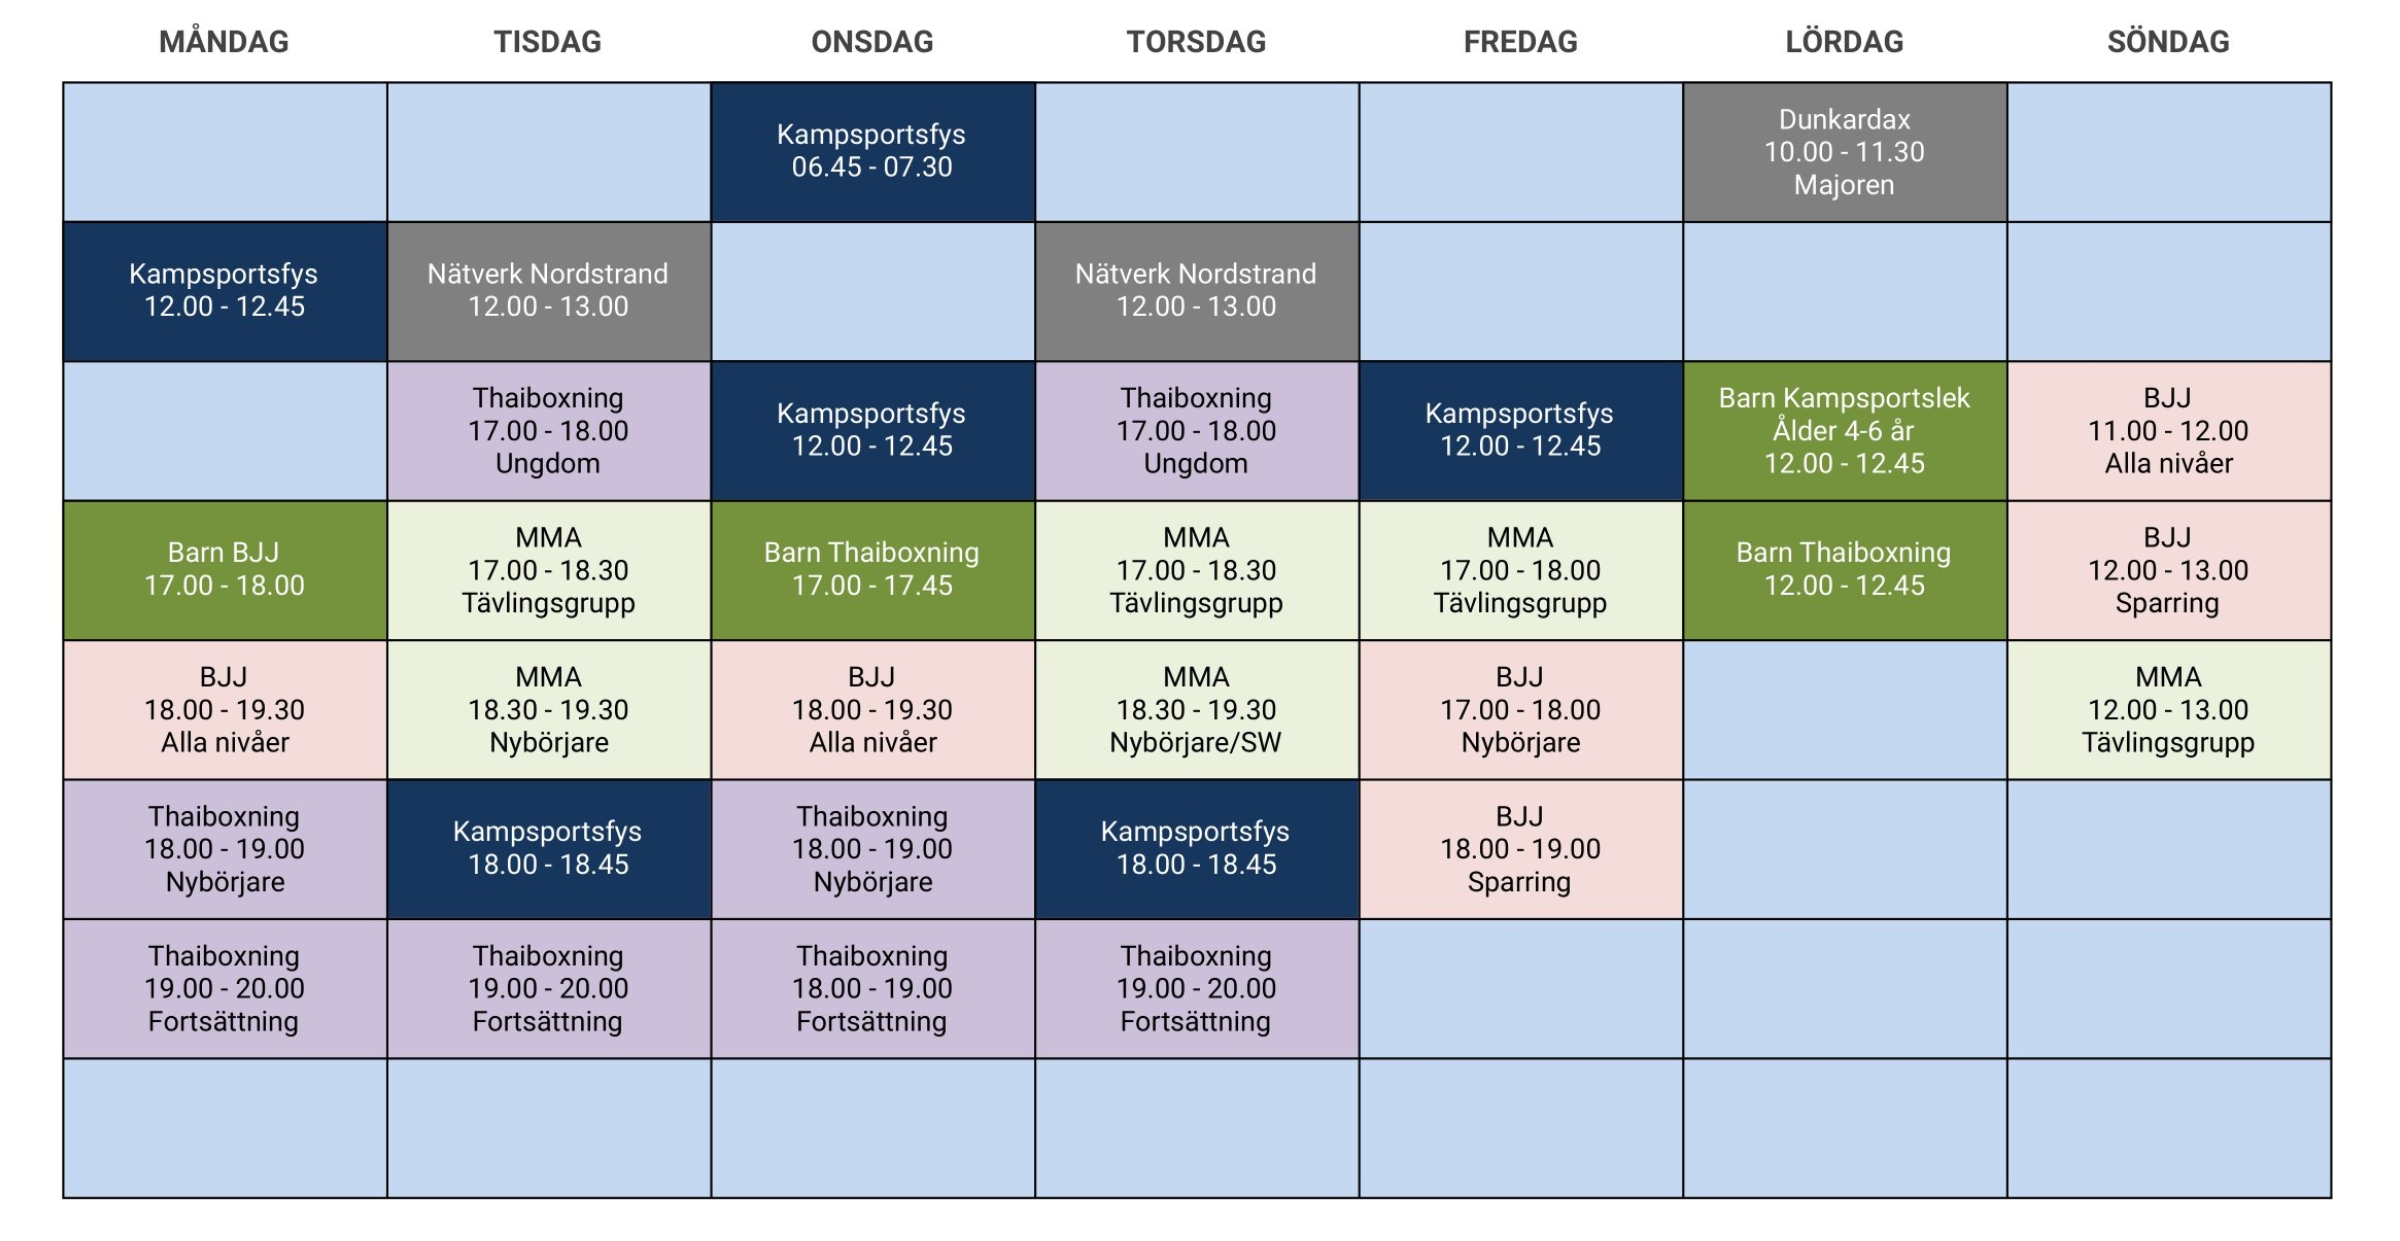
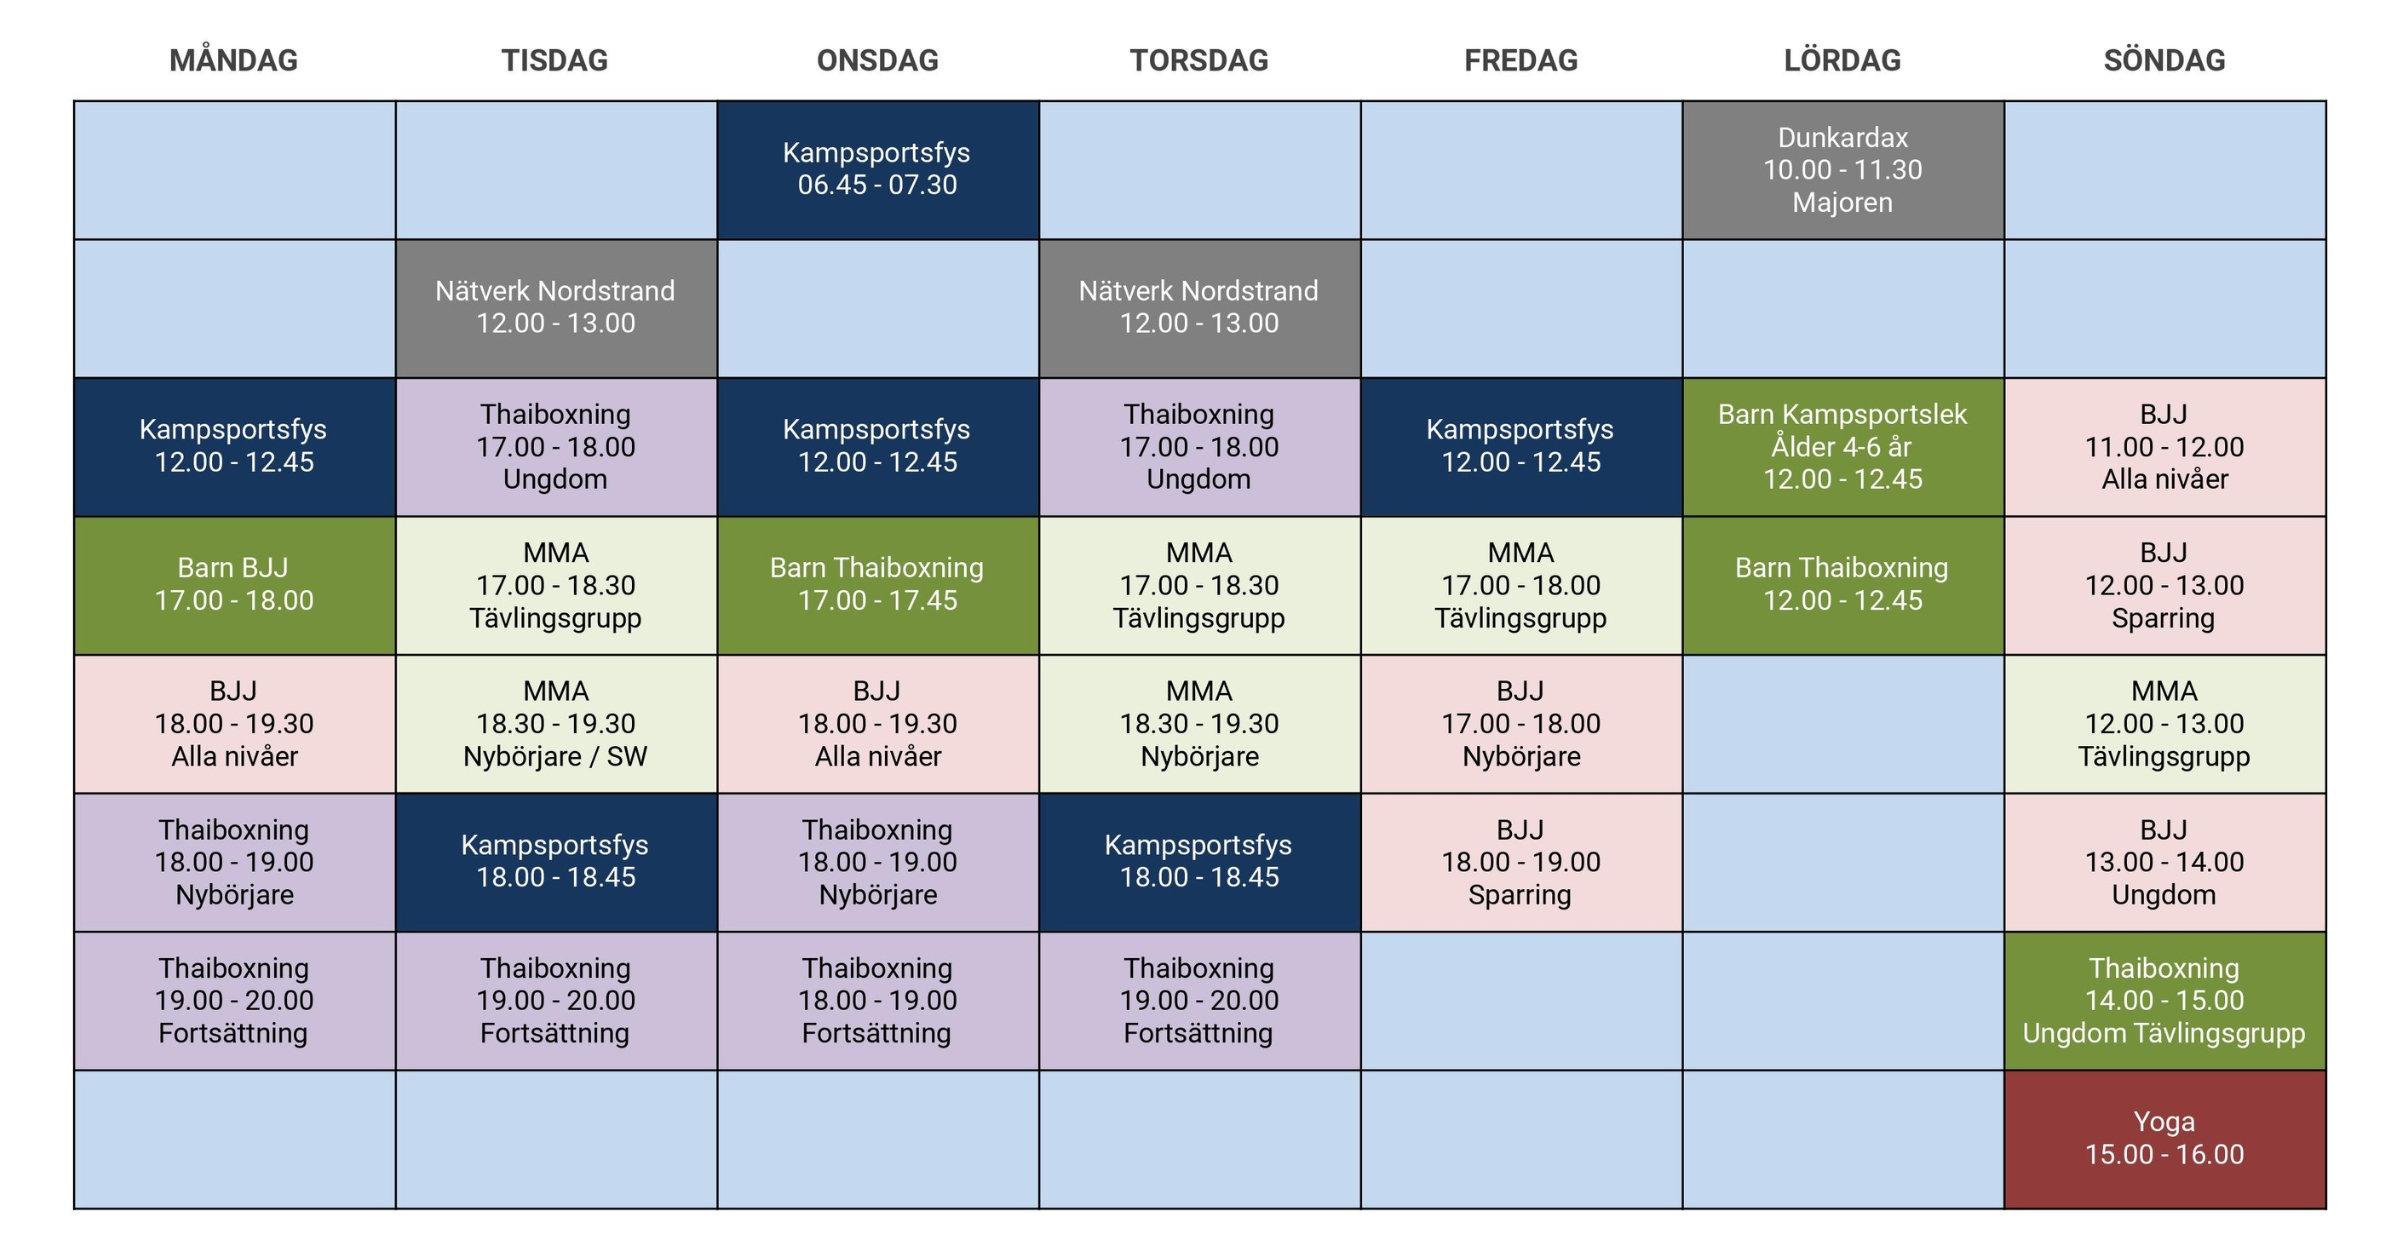
Fixes

Changed region(s): [[0.0, 0.0, 1.0, 0.9799]]

diff --git a/src/data/classes.tsx b/src/data/classes.tsx
@@ -1,23 +1,21 @@
 const classes = [
   {header: `Muay Thai`, text:`Här lär du dig grunderna i thaiboxning. Slag, spark, armbågar,
   knän och clinch. En utmanande och rolig sport där man ständigt utvecklas och lär sig något nytt. Denna träningsform passar båda motionärer och proffs.
-  En bra all around  träning med mycket fokus på fys, funktionell styrka och teknik.`, classLevels:`ungdomar (12-16år), nybörjare, fortsättning & avancerad.`, 
+  En bra all around  träning med mycket fokus på fys, funktionell styrka och teknik.`, classLevels:`Barn (7-12 år), ungdomar (12-16år), nybörjare, fortsättning & avancerad.`, 
   coaches:`Rickard Nordstrand, Fredrik Gillinger, Patrik Alfredsson, Oscar Svedman, Niklas Karlsson, Ash Byrne, Markuu Hakala, Synöve Asplund, Liam Wilson & Mathilda Lundquvist.`},
   {header: `MMA`, text:`Mixed Martial Arts (MMA) är en sport med sparkar, slag, kast och markkamp med inriktning på fullkontakt. Det är en teknisk sport var man ständigt utmanas, utvecklas och lär sig något nytt.
-  Handskar, benskydd och tandskydd behövs.`, classLevels:`nybörjare, fortsättning/avancerad & tävling.`, 
+  Handskar, benskydd och tandskydd behövs.`, classLevels:`Vi har klasser för alla nivåer`, 
   coaches:`Jimmie Jensen (tävlingsansvarig för elitgruppen), Pejman Parchami, Sandra Meneses, Jaffer Mohammed.`},
   {header: `Brasiliansk jiu-jitsu (BJJ)`, text:`Brasiliansk jiu-jitsu (Bjj) härstammar från japansk jiu-jitsu och judo men har under decennier vidareutvecklats av familjen Gracie. Bjj är en grappling-stil, 
   vilket innebär att man inte använder sig av slag eller sparkar utan istället fokuserar på att med ledlås och strypningar oskadliggöra sin motståndare. Grundtanken är att få ner sin motståndare på marken, 
   kontrollera honom/henne där och med hjälp av ledlås och strypningar tvinga denne att ge upp. Bjj är den kampsport där en mindre utövare har störst möjlighet att övermanna en större och starkare motståndare. 
   Detta för att teknik alltid går före fysiska egenskapar. Fokus på teknik och att kampen huvudsaklig pågår på marken gör att detta är en sport som passar alla. Killar som tjejer, små som stora och unga som gamla.`, 
-  classLevels:`barn, nybörjare & avancerad.`, coaches:`Rodrigo Gonzalez, Reza Sadeghi, Erik Veas (barngrupp)`},
+  classLevels:`Barn (7-12 år), ungdomar (12-16år), nybörjare, fortsättning & avancerad.`, coaches:`Rodrigo Gonzalez, Reza Sadeghi, Erik Veas (barngrupp)`},
   {header: `Kampsportsfys`, text:`Funktionell styrka med kampsportsmoment. Effektiv och rolig träning. Utmanande utan att man behöver slåss med någon. Passar för alla och inga förkunskaper krävs.`, 
   classLevels:``, coaches:`Rickard Nordstrand, Matias Sylvan, Petter Ingmarsson, Patrik Asplund, Synøve Asplund, Sabina Dalfjäll Vassiliou & Theres Bäckgren.`},
   {header: `Dunkardax/Cirkelfys`, text:`90 minuter cirkelträning med kampsport moment. Ett fyspass med högt tempo, styrka och flås! Passar för alla och inga förkunskaper krävs.`, 
   classLevels:``, coaches:`Jesper Majoren Lindblom, Fredrik Gillinger & Linda Wering.`},
-  {header: `Gym`, text:`Som medlem har du fri tillgång till att använda gymmet 06.30-20.30 vardagar samt 09.00-13.00 lördag/söndag. 
-  Här hittar man det man behöver för att lyfta och bli stärk. Här finns även roddmaskiner, cyklar, yoga-matta och pilatesboll. 
-  Allt man behöver för att komplettera kampsporten på bästa möjliga sätt.`, 
+  {header: `Gym`, text:`I vårt gym hittar du allt du behöver för att bygga upp styrka och stabilitet. Vi har löpband, roddmaskiner och cyklar samt skivstänger, hantlar, kettlebells och kabelmaskin för att du ska kunna kunna få en varierad träning som komplement till kampsporten.`, 
   classLevels:``, coaches:``},
   {header: `Kampsport Barngrupp`, text:`Rekommenderad ålder är ca 7 till 11 år. BJJ: Brottning med GI-dräkt, Måndagar 17.00-17.55. Thaiboxning: Blandning av tekniker som slag och sparkar med fys och kroppskontroll, Onsdagar 17.00-17.45 + Lördagar 12.00-13.00. Kampsportlek: Kampsport för dom minsta. Barnen kommer lära sig brottning slag och sparkar under kontrollerade lekfulla former, 4-6 år: Lördagar 12.00-12.45, 
   Föräldrarna til dom minsta behöver vara med och hjälpa till att assistera under passen. Inga pass under skolloven.`, 
@@ -25,9 +23,14 @@ const classes = [
   {header: `AW/After work`, text:`Byt ut ölen med en Nocco och dra med kollegor och vänner på ett After Workout pass! 60 minuters grym träning!
   Vill ditt företag köra en After Workout:maila till info@kampsportstadion.se`, 
   classLevels:``, coaches:``},
-  {header: `Small Group`, text:`Vill du köra i liten grupp och få en mer personligare träning ännu på gruppassen? Våra PT kör grupper med upp till 4 personer anpassad 
-  efter erat önskemål. 1800kr per tillfället. Maila för mera information info@kampsportstadion.se`, 
+  {header: `Small Group`, text:`Vill ni köra i en ännu mindre grupp och mer personligt anpassad träning kan vi även erbjuda detta. Ni kör med en PT i en grupp upp till 4pers, där ni har chans att påverka varje pass utefter era önskemål.
+  Det kostar 1800kr per tillfälle och intresseanmälan görs till info@kampsportstadion.se`, 
   classLevels:``, coaches:``},
+  {header: `Strong Mama`, text:`Här är du som har en bebis hemma från 0-6mån välkommen att delta tillsammans med ditt lilla mirakel och andra mammor.
+  Vi kommer jobba utifrån ditt utgångsläge, men tillsammans med andra mammor för att skapa en liten exklusiv grupp för nyblivna mammor med samma intresse.
+  Fokus ligger här på att få tillbaka core-stabilitet och succesivt jobba upp din styrka och kondition.
+  Vi kommer jobba tillsammans 2ggr/vecka i 4-8veckor och detta pass ligger utanför ordinare medlemskap - För mer info och pris maila info@kampsportstadion.se och skriv StrongMama i ämnesfältet.`, 
+  classLevels:``, coaches:``}
 ]
 
 export default classes;

diff --git a/src/app/medlemskap/page.tsx b/src/app/medlemskap/page.tsx
@@ -10,7 +10,7 @@ export default function MembershipPage() {
       <div className="w-full">
         <div className="w-full h-full flex flex-col mt-40 items-center">
           <h2 className="text-center text-4xl font-bold">MEDLEMSKAP</h2>
-          <BlackButton text={"KÖP HÄR"} href={""} />
+          <BlackButton text={"KÖP HÄR"} href={"https://www.gymcontrol.se/global/webshop/index.php?uid=8975&action=home"} />
           <div className="grid grid-flow-row w-900:grid-cols-2 p-5">
 
             <div className="flex flex-col text-center h-full w-900:text-2xl col-start-1">
@@ -27,7 +27,7 @@ export default function MembershipPage() {
 
             <div className="flex flex-col text-center h-full w-900:text-2xl w-900:col-start-2">
               <h2 className="border-2 border-b-0 font-bold p-2 w-900:text-2xl">Årskort student</h2>
-              <p className="border-2 border-t-0 p-2 flex-grow w-900:px-20">550:-/månad autogiro
+              <p className="border-2 border-t-0 p-2 flex-grow w-900:px-20">8000:-/år
                 <br></br>
                 Träna så mycket du vill,
                 välj bland alla pass, tillgång till gymmet.
@@ -37,7 +37,7 @@ export default function MembershipPage() {
 
             <div className="flex flex-col text-center h-full w-900:text-2xl w-900:col-start-1 w-900:row-start-4">
               <h2 className="border-2 border-b-0 font-bold p-2 w-900:text-2xl">Guld Medlemskap</h2>
-              <p className="border-2 p-2 border-t-0 flex-grow w-900:px-20">1299:-/månad autogiro
+              <p className="border-2 p-2 border-t-0 flex-grow w-900:px-20">1499:-/månad autogiro
                 <br></br>
                 Träna så mycket du vill. Välj bland alla pass. Tillgång till gymmet. <span className="font-bold">Medlemskapet inkluderar även en 50 min behandling hos Proaktiv Idrottscenter varje månad.</span>
                 Behandlingen måste nyttjas månaden dragningen gäller och kan inte sparas. 6 månaders bindningstid.
@@ -54,7 +54,7 @@ export default function MembershipPage() {
 
             <div className="flex flex-col text-center h-full w-900:text-2xl w-900:col-start-2">
               <h2 className="border-2 border-b-0 font-bold p-2 w-900:text-2xl">Halvår student</h2>
-              <p className="border-2 border-t-0 p-2 flex-grow w-900:px-20">3900:-/halvår
+              <p className="border-2 border-t-0 p-2 flex-grow w-900:px-20">4500:-/halvår
               <br></br>
               6 månaders bindningstid.
               </p>
@@ -72,7 +72,7 @@ export default function MembershipPage() {
               <h2 className="border-2 border-b-0 font-bold p-2 w-900:text-2xl">Thaiboxning ungdom 12-16 år</h2>
               <p className="border-2 border-t-0 p-2 flex-grow w-900:px-20">399:-/månad autogiro
               <br></br>
-              2800:-/halvår kontant
+              2800:-/termin kontant
               <br></br>
               Gäller tisdag & torsdag 17.00-18.00
               <br></br>
@@ -114,16 +114,12 @@ export default function MembershipPage() {
             <div className="flex flex-col text-center h-full w-900:text-2xl w-900:col-start-1">
               <h2 className="border-2 border-b-0 font-bold p-2 w-900:text-2xl">Prova på en vecka</h2>
               <p className="border-2 border-t-0 p-2 flex-grow w-900:px-20">500:-
-              <br></br>
-              Ingen drop in
-              <br></br>
-              Medlemsavgift på 500:- tillkommer, alla som tränar hos oss måste vara medlemmar.
               </p>
             </div>
 
             <div className="grid grid-flow-row text-center w-900:text-2xl">
               <h2 className="border-2 border-b-0 font-bold p-2 w-900:text-2xl">Villkor</h2>
-              <p className="border-2 border-t-0 p-2 w-900:px-20">Medlemsavgift om 500:-/år är obligatorisk, inkluderar
+              <p className="border-2 border-t-0 p-2 w-900:px-20">Medlemsavgift om 500:-/år är obligatorisk oavsett medlemskap, inkluderar
               idrottsförsäkring hos Folksam. Betalas på plats alt läggs till på första autogirodragningen.
               <br></br>
               <br></br>
@@ -140,7 +136,7 @@ export default function MembershipPage() {
               Bindningstiden för autogiro är 12 månader för vuxna och 6 månader för ungdom/student upp till 18 år.
               <br></br>
               Kampsport barngrupper binder sig för en termin. Vill man avsluta sitt barns medlemskap meddelar man detta innan 
-              nästa termins uppstart (gäller barngrupp 6-11 år)
+              nästa termins uppstart (gäller barngrupp 4-11 år)
               <br></br>
               <br></br>
               Vid uppsägning av medlemskap, maila ditt namn, personnummer och kortnummer till info@kampsportstadion.se

diff --git a/src/app/page.tsx b/src/app/page.tsx
@@ -22,7 +22,7 @@ export default function Home() {
         </div>
         <div className="w-full flex flex-col px-10 items-center w-900:px-40 mt-40">
           <h2 className="text-center text-2xl w-900:text-4xl font-bold">Kampsport på Stockholm Stadion</h2>
-          <p className="text-center text-lg w-900:text-2xl mt-4">I fina lokaler inne på Stockholm Stadion hittar du Kampsportstadion. Med 400 kvm sal med och fantastiska tränare har vi kampsport för alla. Som medlem hos oss kan du köra alla pass på schemat och du har fri tillgång till gymmet.</p>
+          <p className="text-center text-lg w-900:text-2xl mt-4">I fina lokaler inne på Stockholm Stadion hittar du Kampsportstadion. Med en 400 kvm stor sal och fantastiska tränare kan vi erbjuda kampsport för alla. Som medlem hos oss kan du köra alla pass på schemat och du har fri tillgång till gymmet.</p>
           <p className="text-center text-lg w-900:text-2xl mt-2">Vi har klasser i <span className="font-bold">Kampsportfys, Cirkelträning, Muay Thai, MMA, Barnträning, Yoga och BJJ.</span></p>
           <BlackButton text='Se alla klasser' href="/klasser" />
           <BlackButton text='Medlemskap' href="/medlemskap" />

diff --git a/src/app/pt/page.tsx b/src/app/pt/page.tsx
@@ -26,6 +26,13 @@ export default function ContactPage() {
             phoneNumber='0723055301'
           />
           <StaffCard 
+            name="Therese Bäckgren"
+            description="Vill du få bättre kondition eller bygga en stark och stabil fysik hjälper jag dig gärna. Tillsammans utgår vi från vart du är idag och vart du vill komma. Med min bakgrund inom fitness och styrketräning har jag verktygen för att du ska kunna nå dina mål."
+            instagramHandle="synove_asplund"
+            email="synove@kampsportstadion.se"
+            phoneNumber='0723055301'
+          />
+          <StaffCard 
             name="Jimmie Jensen"
             description="Som huvudcoach för vår elitgrupp med bland annat UFC fighters och landslags-fighters kan Jimmie ta din fighting till en ny nivå. Nybörjare som proffs spelar ingen roll-tillsammans lägger vi upp en plan för att ge dig den personliga utvecklingen och resultat du vill åt. Teknik, styrka  kondition för att bygga en stark, hållbar kropp och ett bra fighting game."
             instagramHandle="jimmie_jensen"

diff --git a/src/app/kontakt/page.tsx b/src/app/kontakt/page.tsx
@@ -24,12 +24,18 @@ export default function ContactPage() {
             <br></br>
             Tel: 076-625-91 83 
             <br></br>
-            Måndag-torsdag 17.00-20.00 (vi har ofta svårt att svara i telefonen då man håller pass så lättas är att maila (info@kampsportstadion.se) eller skicka sms så ringer vi upp er i mån av tid!).
+            <br></br>
+            Öppettider:
+            <br></br>
+            Måndag-torsdag 16.30 - 17.30
+            <br></br>
+            Lördag 09.30 - 13.30
+            <br></br>
+            Söndag 10.30 - 13.30
+            <br></br>
+            (Stängt alla röda dagar samt under sommar + jul)
             <br></br>
             <br></br>
-            Receptionen är bemannad måndag till torsdag 16.30-20.00 och lördag 10.00-12.00.
-            <br></br>
-            Under sommaren och julen har vi stängt. Kolla schemat för info om sommarträning och julträning.
           </p>
         </div>
       </div>

diff --git a/src/app/schema/page.tsx b/src/app/schema/page.tsx
@@ -9,7 +9,7 @@ export default function SchemaPage() {
         forWhiteBg={true}
       />
       <div className="w-full">
-        <div className="w-full h-screen flex flex-col mt-40 items-center">
+        <div className="w-full h-full flex flex-col mt-40 items-center">
           <h2 className="text-center text-4xl font-bold mb-5">SCHEMA</h2>
           <img
               src="/schedule-fall-lg.jpg"

diff --git a/src/components/contact_info/contact_info.tsx b/src/components/contact_info/contact_info.tsx
@@ -34,7 +34,7 @@ export default function ContactInfo() {
           }}
         />
       </a>
-      <a href="https://goo.gl/maps/5ipnHxJKXbrAHLBw6" target="_blank">
+      <a href="https://www.gymcontrol.se/global/webshop/index.php?uid=8975&action=home" target="_blank">
         <img
           src="/shopping_cart_icon.svg"
           alt="shopping cart icon"

diff --git a/src/app/klasser/page.tsx b/src/app/klasser/page.tsx
@@ -42,7 +42,6 @@ export default function ClassesPage() {
               <br></br>
               <p>{item.classLevels ? `Vi har klasser för ${item.classLevels}` : ''}</p>
               <br></br>
-              <p>{item.coaches ? `Tränare: ${item.coaches}` : ''}</p>
             </div>
           )}
         </div>
